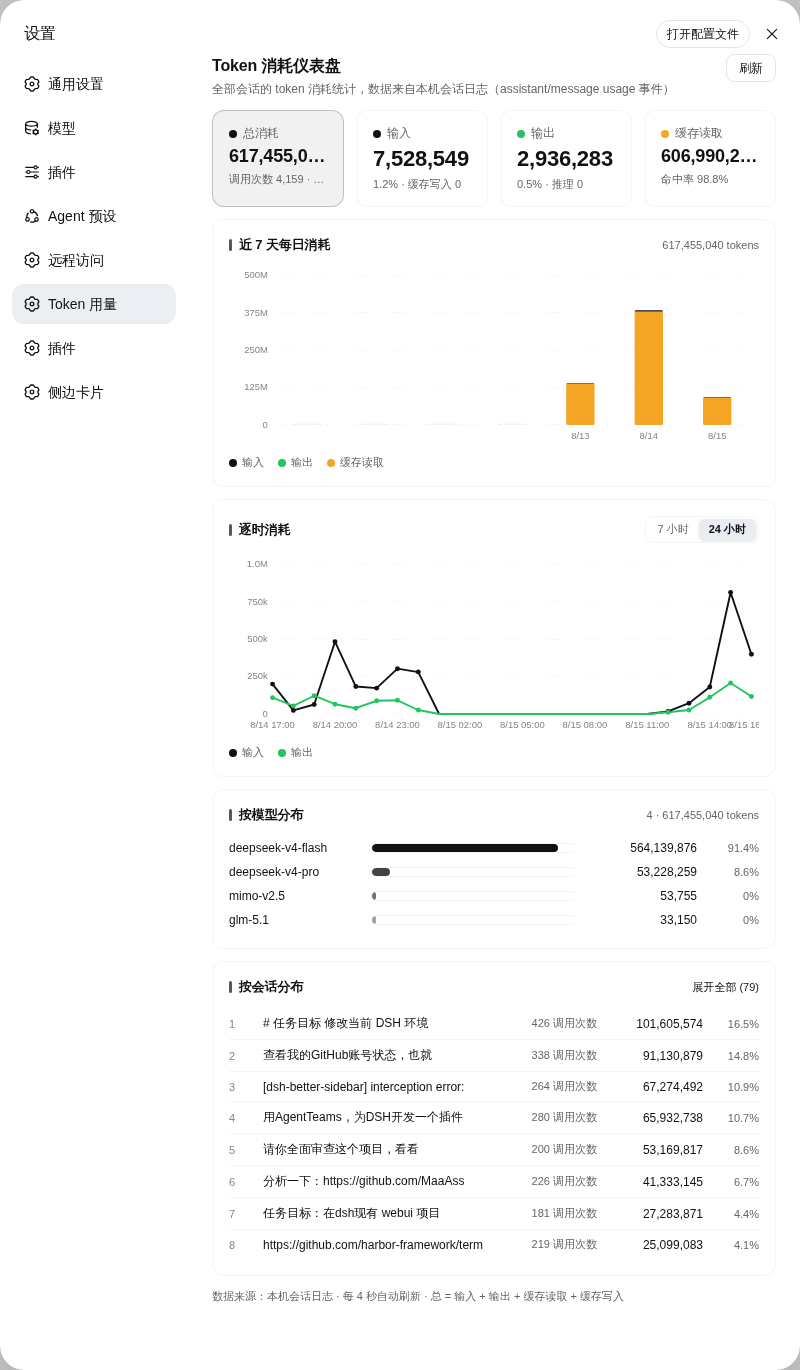
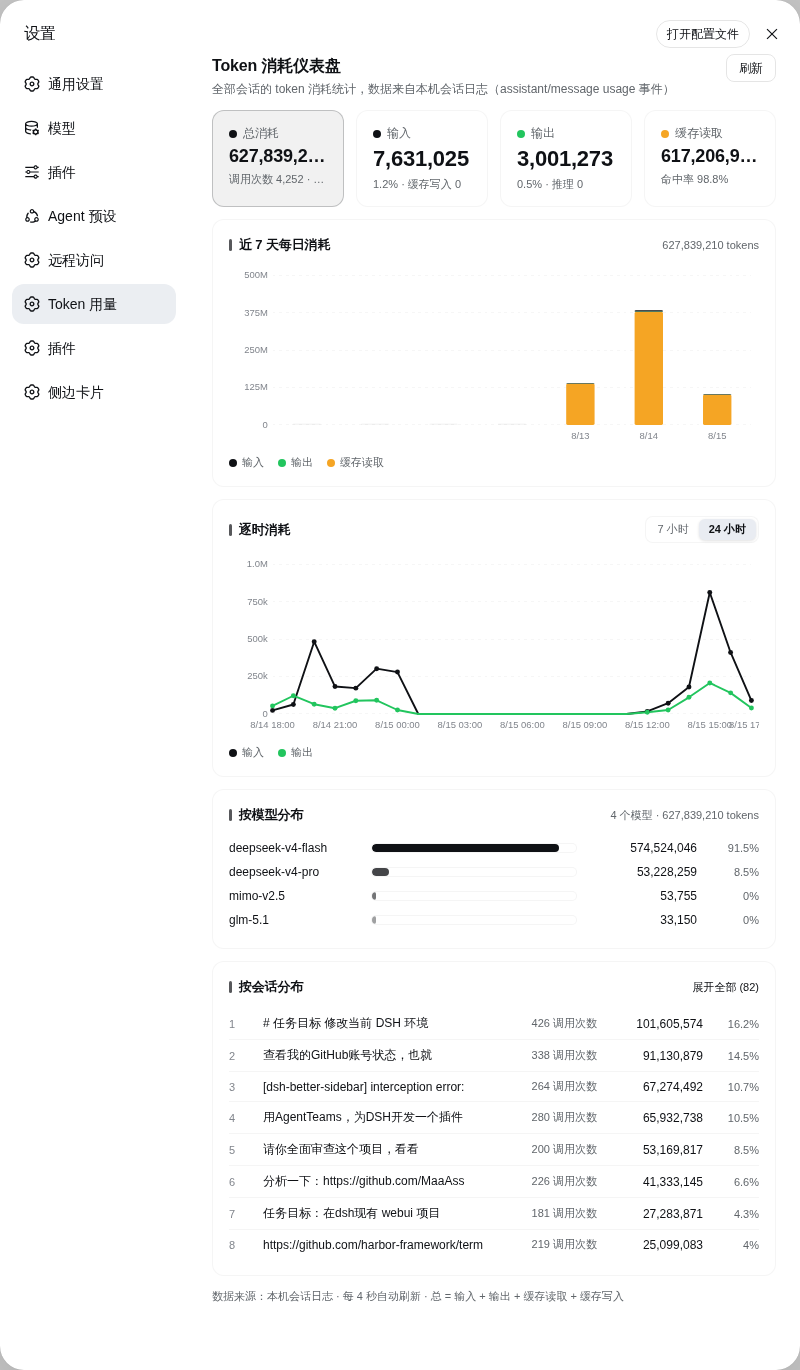
ui: clarify model count in By-model card note (add unit '个模型')

diff --git a/lib/client.js b/lib/client.js
@@ -58,7 +58,8 @@ window.__ModuleLoader__.load({
 				missing: "缺",
 				unknown: "未知模型",
 				hitRate: "命中率",
-				today: "今日"
+				today: "今日",
+				models: "个模型"
 			},
 			en: {
 				nav: "Token usage",
@@ -91,7 +92,8 @@ window.__ModuleLoader__.load({
 				missing: "missing",
 				unknown: "Unknown model",
 				hitRate: "hit rate",
-				today: "Today"
+				today: "Today",
+				models: "models"
 			}
 		};
 		function t(key) {
@@ -663,7 +665,7 @@ window.__ModuleLoader__.load({
 			}), t("input")), (0, react.createElement)("span", null, (0, react.createElement)("span", {
 				className: "udb-dot",
 				style: { background: "var(--dsw-alias-state-success-primary,#30a46c)" }
-			}), t("output")))) : null, hasData ? (0, react.createElement)("div", { className: "udb-card" }, (0, react.createElement)("div", { className: "udb-card-head" }, (0, react.createElement)("div", { className: "udb-card-title" }, t("byModel")), (0, react.createElement)("div", { className: "udb-card-note" }, fmtFull((data?.byModel || []).length) + " · " + fmtFull(total) + " tokens")), (0, react.createElement)(DistBars, {
+			}), t("output")))) : null, hasData ? (0, react.createElement)("div", { className: "udb-card" }, (0, react.createElement)("div", { className: "udb-card-head" }, (0, react.createElement)("div", { className: "udb-card-title" }, t("byModel")), (0, react.createElement)("div", { className: "udb-card-note" }, fmtFull((data?.byModel || []).length) + " " + t("models") + " · " + fmtFull(total) + " tokens")), (0, react.createElement)(DistBars, {
 				rows: modelRows,
 				total,
 				colorOf: (i) => palette[i % palette.length],

diff --git a/src/client/index.tsx b/src/client/index.tsx
@@ -57,6 +57,7 @@ const DICT: Record<string, Record<string, string>> = {
     unknown: '未知模型',
     hitRate: '命中率',
     today: '今日',
+    models: '个模型',
   },
   en: {
     nav: 'Token usage',
@@ -90,6 +91,7 @@ const DICT: Record<string, Record<string, string>> = {
     unknown: 'Unknown model',
     hitRate: 'hit rate',
     today: 'Today',
+    models: 'models',
   },
 }
 
@@ -734,7 +736,7 @@ function DashboardSection(): any {
       createElement('div', { className: 'udb-card-head' },
         createElement('div', { className: 'udb-card-title' }, t('byModel')),
         createElement('div', { className: 'udb-card-note' },
-          fmtFull((data?.byModel || []).length) + ' · ' + fmtFull(total) + ' tokens',
+          fmtFull((data?.byModel || []).length) + ' ' + t('models') + ' · ' + fmtFull(total) + ' tokens',
         ),
       ),
       createElement(DistBars, {
